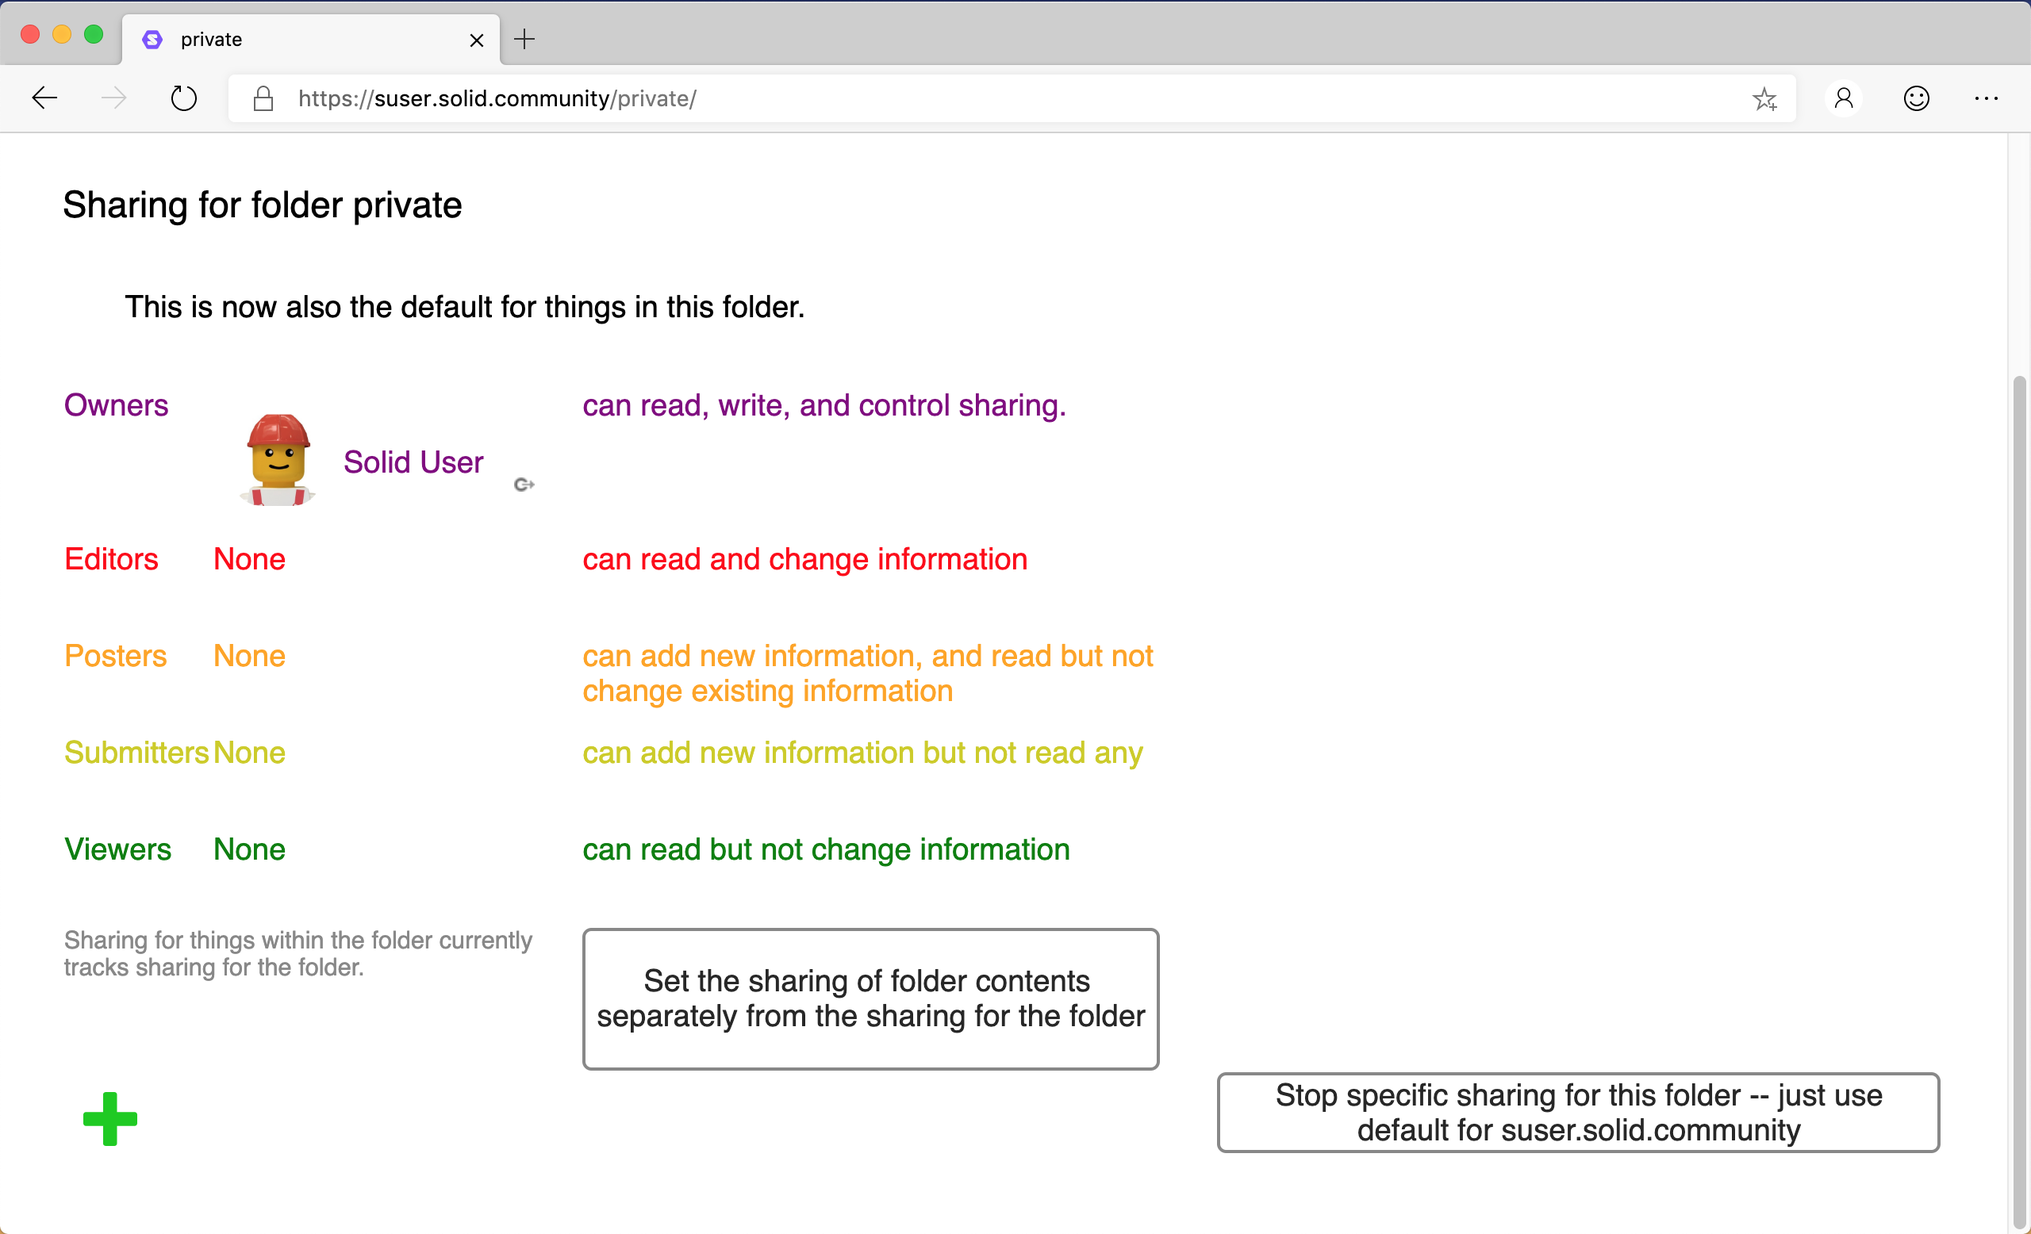
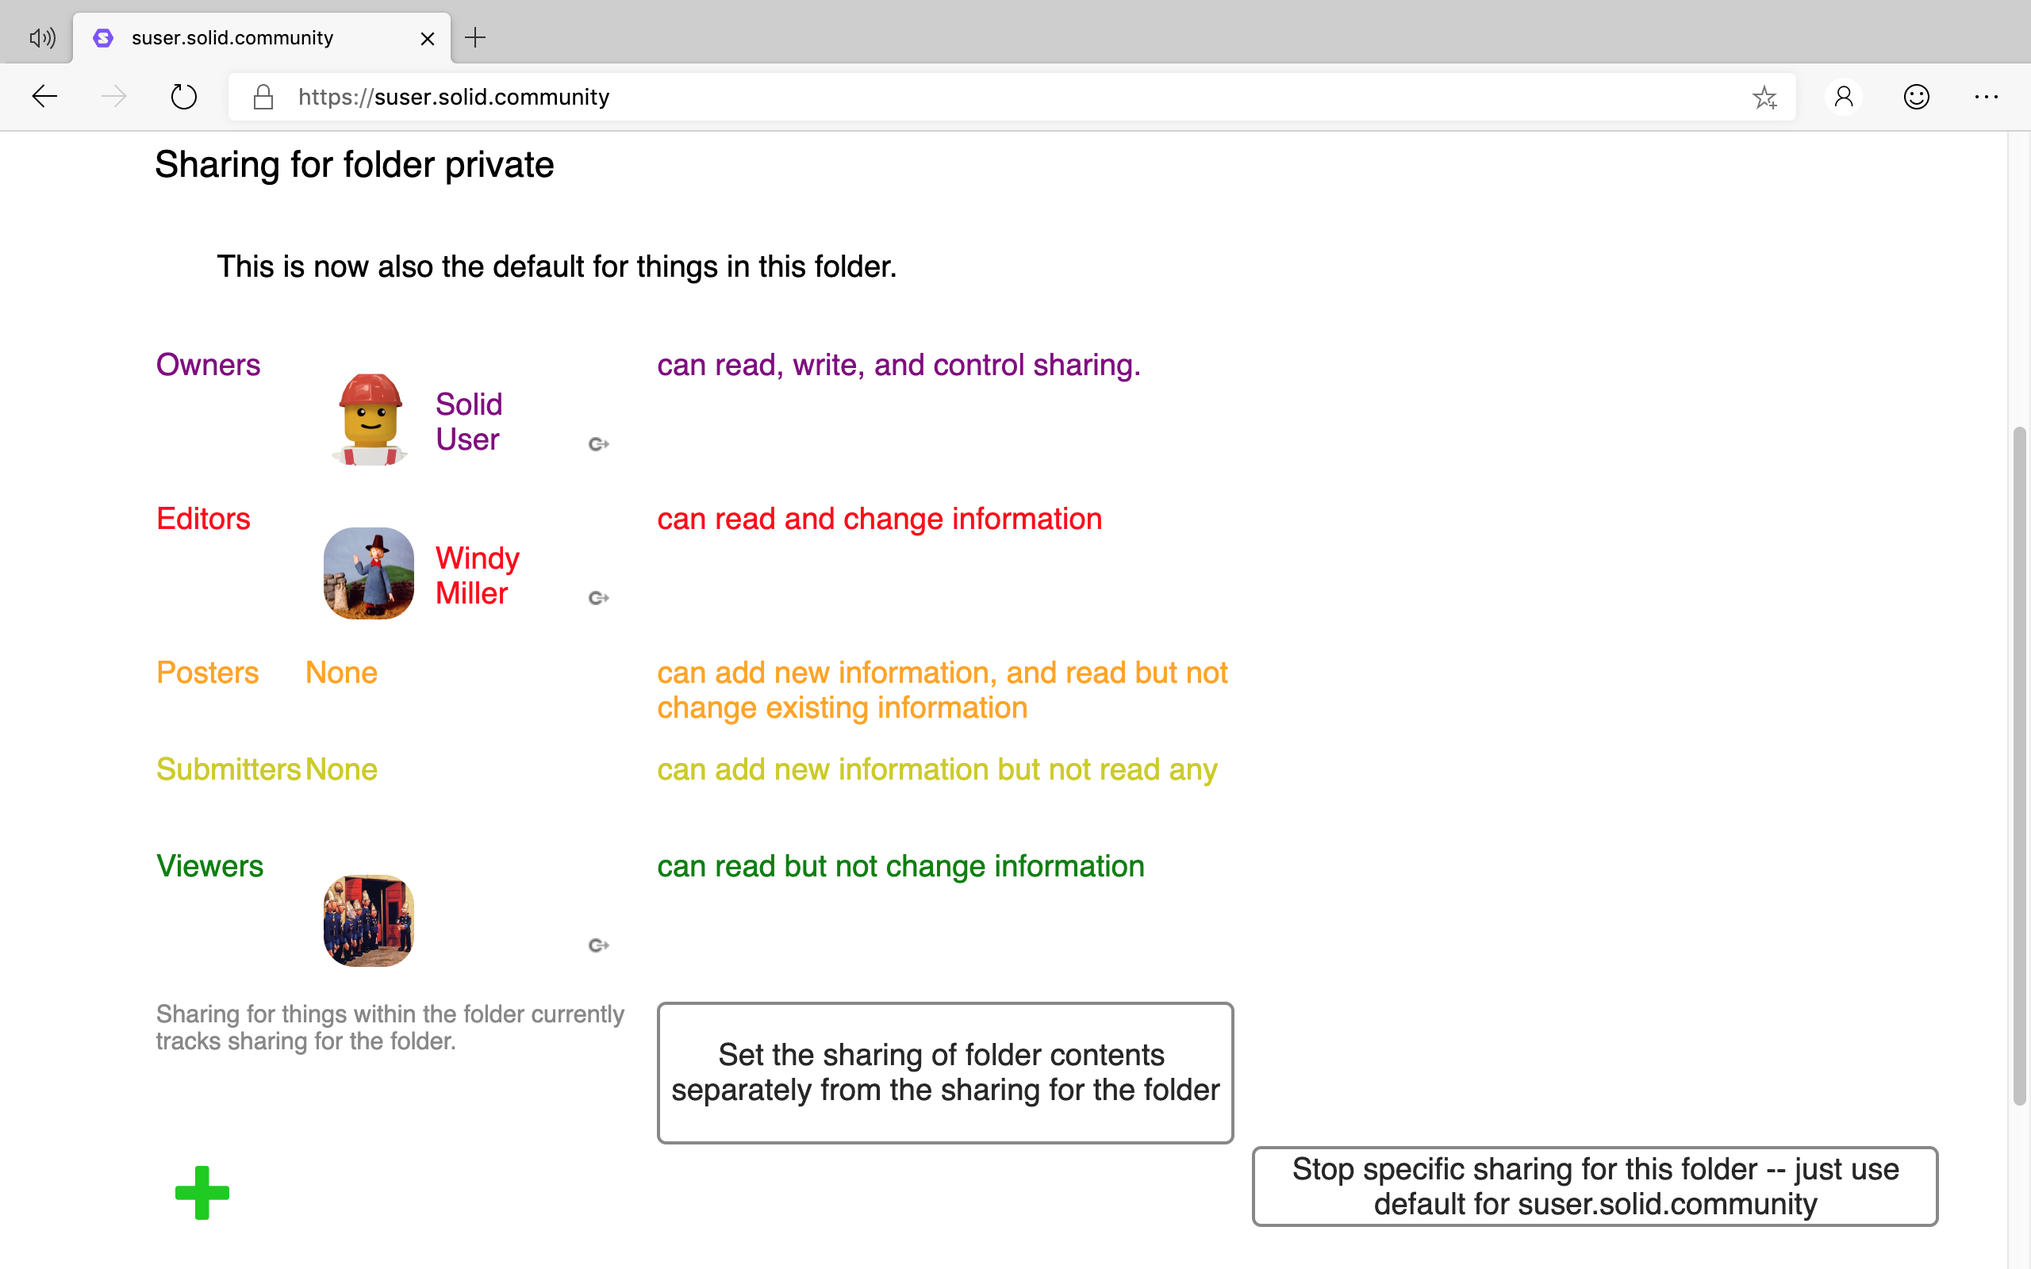
Source View added
Source View added. Renamed view user guides to userguide.md.

diff --git a/README.md b/README.md
@@ -10,7 +10,7 @@ The Data Browser is your de-facto default interface to Solid, enabling you to cr
 ## Accessing
 To access the data stored in a Solid Pod via the Data Browser:
 
-1. In a web browser, navigate to the root Uniform Resource Locator (URL) for the Pod.
+1. In a web browser, navigate to the root Uniform Resource Locator (URL) for the Pod (e.g., https://suser.solid.community):
 2. You will see a view of the public data within the Pod:
 
     <img src=".gitbook/assets//Public_Home.png" alt="Home View (Public)" width="1024" style="border: 1; border-style:solid; border-color: rgb(200,200,200)">
@@ -47,10 +47,10 @@ Via the Data Browser, you can browse and maintain the data within the Pod.
 ### Navigation
 The Data Browser allows you to navigate through the data you have read access.
 
-1. If necessary, click the Solid logo to display the <img src=".gitbook/icons/home.svg" alt="Home" width="16" height="16"> Home view.
-2. Display the <img src=".gitbook/icons/folder.svg" alt="Folder" width="16" height="16"> Folder view.
+1. If necessary, click the Solid logo to display the <img src="https://solid.github.io/solid-ui/src/icons/noun_547570.svg" alt="Home" width="16" height="16"> Home view.
+2. Display the <img src="https://solid.github.io/solid-ui/src/icons/noun_973694_expanded.svg" alt="Folder" width="16" height="16"> Folder view.
 3. The folder and data resources in the root folder are displayed as a tree.
-4. Nagivate through the tree by <img src=".gitbook/icons/tbl-collapse.png" alt="Expand" width="16" height="16">expanding and <img src=".gitbook/icons/tbl-expand-trans.png" alt="Collapse" width="16" height="16">collapsing folders and data resources.
+4. Nagivate through the tree by <img src="https://solid.github.io/solid-ui/src/originalIcons/tbl-expand-trans.png" alt="Expand" width="16" height="16">expanding and <img src="https://solid.github.io/solid-ui/src/originalIcons/tbl-collapse.png" alt="Collapse" width="16" height="16">collapsing folders and data resources.
 
 _Tip: You can enter the URL for a folder or data resource in the web browser address bar to navigate directly to that resource._
 
@@ -59,18 +59,18 @@ You can view the contents of any folders and/or data resources to which you have
 
 To view an existing folder or data resource:
 1. [Navigate](#Navigation) to the folder containing the resource.
-2. Open the resource by clicking the <img src=".gitbook/icons/tbl-expand-trans.png" alt="Expand" width="16" height="16"> icon next to the resource.
+2. Open the resource by clicking the <img src="https://solid.github.io/solid-ui/src/originalIcons/tbl-expand-trans.png" alt="Expand" width="16" height="16"> icon next to the resource.
 3. Depending upon the type of resource selected, different view options can be displayed:
-    * <img src=".gitbook/icons/about.png" alt="About" width="16" height="16"> About.
-    * <img src=".gitbook/icons/data.gif" alt="Data" width="16" height="16"> Data.
-    * <img src=".gitbook/icons/dataasn3.png" alt="Data as N3" width="16" height="16"> Data as N3.
-    * <img src=".gitbook/icons/dokieli.png" alt="Dokieli" width="16" height="16"> [Dokieli](https://dokie.li/). Clientside editor for decentralised article publishing, annotations and social interactions.
-    * <img src=".gitbook/icons/folder.svg" alt="Folder" width="16" height="16"> Folder.
-    * <img src=".gitbook/icons/rdfxml.png" alt="RDF/XML" width="16" height="16"> RDF/XML.
-    * <img src="views/settings/underthehood.png" alt="Settings" width="16" height="16"> [Settings](views/settings/README.md). Access 'under the hood' functionality regarding the resource.
-    * <img src="views/sharing/sharing.svg" alt="Sharing" width="16" height="16"> [Sharing](views/sharing/README.md). Display/update the sharing permissions for the resource.
-    * <img src=".gitbook/icons/slideshow.svg" alt="Slideshow" width="16" height="16"> Slideshow. Display a slideshow of the images contained within the folder.
-    * <img src="views/source/source.svg" alt="Source" width="16" height="16"> [Source](views/source/README.md). Display the source of a text file.
+    * <img src="https://solid.github.io/solid-ui/src/originalIcons/about.png" alt="About" width="16" height="16"> About. Display information regarding the resource.
+    * <img src="https://solid.github.io/solid-ui/src/originalIcons/rdf_flyer.24.gif" alt="Data" width="16" height="16"> Data. Display the resource using a Data view.
+    * <img src="https://solid.github.io/solid-ui/src/originalIcons/w3c/n3_smaller.png" alt="Data as N3" width="16" height="16"> Data as N3. Display the resource in Notation3 (N3) language. For more details on N3, click [here](https://www.w3.org/TeamSubmission/n3/).
+    * <img src="https://solid.github.io/solid-ui/src/icons/dokieli-logo.png" alt="Dokieli" width="16" height="16"> [Dokieli](https://dokie.li/). Clientside editor for decentralised article publishing, annotations and social interactions.
+    * <img src="https://solid.github.io/solid-ui/src/icons/noun_973694_expanded.svg" alt="Folder" width="16" height="16"> Folder. Display the resources within the container in a tree-view.
+    * <img src="https://solid.github.io/solid-ui/src/originalIcons/22-text-xml4.png" alt="RDF/XML" width="16" height="16"> RDF/XML. Display the resource as RDF/XML.
+    * <img src="https://solid.github.io/solid-ui/src/originalIcons/tango/22-emblem-system.png" alt="Settings" width="16" height="16"> [Settings](https://github.com/solid/userguide/views/settings/userguide.md). Access 'under the hood' functionality regarding the resource.
+    * <img src="https://solid.github.io/solid-ui/src/icons/padlock-timbl.svg" alt="Sharing" width="16" height="16"> [Sharing](https://github.com/solid/userguide/views/sharing/userguide.md). Display/update the sharing permissions for the resource.
+    * <img src="https://solid.github.io/solid-ui/src/icons/noun_138712.svg" alt="Slideshow" width="16" height="16"> Slideshow. Display a slideshow of the images contained within the folder.
+    * <img src="https://solid.github.io/solid-ui/src/icons/noun_109873.svg" alt="Source" width="16" height="16"> [Source](https://github.com/solid/userguide/views/source/userguide.md). Display the source of a text file.
     Additionally, if the selected resource is of a well-known type (e.g., Address Book, Chat, Dokieli, etc.), it will automatically be opened in that view.
 4. Click the appropriate icon to view the resource in the desired manner.
 
@@ -81,32 +81,32 @@ You can create new folders and data within any Pod folder to which you have crea
 
 To create a new folder or data resource:
 1. [Navigate](#Navigation) to the folder in which you want to create the new resource.
-2. Click the <img src=".gitbook/icons/greenplus.svg" alt="Create" width="16" height="16"> icon for the folder.
+2. Click the <img src="https://solid.github.io/solid-ui/src/icons/noun_34653_green.svg" alt="Create" width="16" height="16"> icon for the folder.
 3. Several icons are displayed showing the types of resource that can be created:
-    * <img src="views/addressbook/addressbook.svg" alt="Address Book" width="16" height="16"> [Address Book](views/addressbook/README.md). List of contacts.
-    * <img src="views/chat/chat.svg" alt="Chat" width="16" height="16"> [Chat](views/chat/README.md). A short chat session.
-    * <img src=".gitbook/icons/dokieli.png" alt="Dokieli" width="16" height="16"> [Dokieli](https://dokie.li/). Clientside editor for decentralised article publishing, annotations and social interactions.
-    * <img src=".gitbook/icons/folder.svg" alt="Folder" width="16" height="16"> Folder. Create a new named folder.
-    * <img src="views/longchat/longchat.svg" alt="Long Chat" width="16" height="16"> [Long Chat](views/longchat.md). A multi-day chat session.
-    * <img src="views/meeting/meeting.svg" alt="Meeting" width="16" height="16"> [Meeting](views/meeting/README.md). Setup a meeting.
-    * <img src="views/notepad/notepad.svg" alt="Note Pad" width="16" height="16"> [Note Pad](views/notepad/README.md). A multi-user notepad.
-    * <img src="views/scheduledevent/scheduledevent.svg" alt="Scheduled Event" width="16" height="16"> [Scheduled Event](views/scheduledevent/README.md).
-    * <img src=".gitbook/icons/source.svg" alt="Source" width="16" height="16"> [Source](views/source.md). Create a text files (e.g., Turtle, JSON, RDF, ShEx and SHACL shapes, etc.).
+    * <img src="https://solid.github.io/solid-ui/src/icons/noun_99101.svg" alt="Address Book" width="16" height="16"> [Address Book](https://github.com/solid/userguide/views/addressbook/README.md). List of contacts.
+    * <img src="https://solid.github.io/solid-ui/src/icons/noun_346319.svg" alt="Chat" width="16" height="16"> [Chat](https://github.com/solid/userguide/views/chat/README.md). A short chat session.
+    * <img src="https://solid.github.io/solid-ui/src/icons/dokieli-logo.png" alt="Dokieli" width="16" height="16"> [Dokieli](https://dokie.li/). Clientside editor for decentralised article publishing, annotations and social interactions.
+    * <img src="https://solid.github.io/solid-ui/src/icons/noun_973694_expanded.svg" alt="Folder" width="16" height="16"> Folder. Create a new named folder.
+    * <img src="https://solid.github.io/solid-ui/src/icons/noun_1689339.svg" alt="Long Chat" width="16" height="16"> [Long Chat](https://github.com/solid/userguide/views/longchat.md). A multi-day chat session.
+    * <img src="https://solid.github.io/solid-ui/src/icons/noun_66617.svg" alt="Meeting" width="16" height="16"> [Meeting](https://github.com/solid/userguide/views/meeting/README.md). Setup a meeting.
+    * <img src="https://solid.github.io/solid-ui/src/icons/noun_79217.svg" alt="Note Pad" width="16" height="16"> [Note Pad](https://github.com/solid/userguide/views/notepad/README.md). A multi-user notepad.
+    * <img src="https://solid.github.io/solid-ui/src/icons/noun_346777.svg" alt="Scheduled Event" width="16" height="16"> [Scheduled Event](https://github.com/solid/userguide/views/scheduledevent/README.md).
+    * <img src="https://solid.github.io/solid-ui/src/icons/noun_109873.svg" alt="Source" width="16" height="16"> [Source](https://github.com/solid/userguide/views/source.md). Create a text files (e.g., Turtle, JSON, RDF, ShEx and SHACL shapes, etc.).
 4. Select the type of resource you want to create.
-5. Enter the name of the new resource, and click the <img src=".gitbook/icons/continue.svg" alt="Continue" width="16" height="16"> Continue button.
+5. Enter the name of the new resource, and click the <img src="https://solid.github.io/solid-ui/src/icons/noun_1180158.svg" alt="Continue" width="16" height="16"> Continue button.
 6. The selected resource will be created in the folder.
 
 _Tip: Dokieli documents must have a `.html` extension._
 
-_Tip: Drag and drop a file onto the <img src=".gitbook/icons/greenplus.svg" alt="Create" width="16" height="16"> button, and it will be uploaded to that folder._
+_Tip: Drag and drop a file onto the <img src="https://solid.github.io/solid-ui/src/icons/noun_34653_green.svg" alt="Create" width="16" height="16"> button, and it will be uploaded to that folder._
 
 ### Deleting existing Data
 You can delete existing folder and data resources to which you have delete permission.
 
 To delete an existing data resource:
 1. Navigate to and open the resource you want to delete.
-2. Click on the <img src="views/settings/underthehood.png" alt="Settings" width="16" height="16"> Settings (Under the Hood) icon.
-3. In the displayed panel, hover your mouse cursor to the left of the <img src=".gitbook/icons/refresh.svg" alt="Refresh" width="16" height="16"> Refresh icon. A <img src=".gitbook/icons/delete.svg" alt="Remove" width="16" height="16"> Remove icon will become visible:
+2. Click on the <img src="https://solid.github.io/solid-ui/src/originalIcons/tango/22-emblem-system.png" alt="Settings" width="16" height="16"> Settings (Under the Hood) icon.
+3. In the displayed panel, hover your mouse cursor to the left of the <img src="https://solid.github.io/solid-ui/src/icons/noun_479395.svg" alt="Refresh" width="16" height="16"> Refresh icon. A <img src="https://solid.github.io/solid-ui/src/icons/noun_2188_red.svg" alt="Remove" width="16" height="16"> Remove icon will become visible:
 
     <img src=".gitbook/assets/Delete_Resource.png" alt="Delete an existing Resource" width="632">
 

diff --git a/views/sharing/userguide.md b/views/sharing/userguide.md
@@ -1,0 +1,65 @@
+---
+description: User Guide For Sharing Data Browser view
+---
+
+# Sharing View User Guide
+Solid allows you to control who can access folders and data resources within your Pod, and what permission have - read, create, update, delete. 
+
+## View
+To display the Sharing view for a folder or data resource:
+1. In the [Data Browser](https://github.com/solid/userguide/README.md), navigate to the resource.
+2. Select the <img src="https://solid.github.io/solid-ui/src/icons/padlock-timbl.svg" alt="Sharing" width="16" > Sharing view.
+3. The Sharing settings for the selected resource are displayed:
+
+<img src="Sharing_View.png" alt="Sharing" width="1024" style="border: 1; border-style:solid; border-color: rgb(200,200,200)">
+
+_Tip: Clicking the <img src="https://solid.github.io/solid-ui/src/originalIcons/go-to-this.png" alt="Sharing" width="16"> Goto This icon next to the user's Profile image/name will display the user's profile._
+
+## Specific Sharing for a Resource
+By default, resources within a folder inherit the permissions from the parent folder. 
+
+To set specific sharing for the resource:
+1. Click the **Set the sharing of folder contents separately from the sharing for the folder** button.
+2. This causes the a set of sharing groups (Owners, Editors, Posters, Submitters, Viewers) for the specific resource to be displayed.
+
+To reset the sharing for the resource back to the default:
+1. Click the **Stop specific sharing for this folder/file** button.
+
+## Custom Sharing
+The sharing permissions for a given resource can be updated to provide access to specific users, groups, bots, authenticated agents, trusted applications, or even everyone.
+
+### Add
+To add a user/group/bot as Viewers:
+1. Click the <img src="https://solid.github.io/solid-ui/src/icons/noun_34653_green.svg" alt="Add" width="16" > Add icon.
+2. Icons are displayed for each of the entities that can be given access to the resource:
+    * <img src="https://solid.github.io/solid-ui/src/icons/noun_15059.svg" alt="User URI" width="20" > User.
+    * <img src="https://solid.github.io/solid-ui/src/icons/noun_339237.svg" alt="Group URI" width="20" > Group.
+    * <img src="https://solid.github.io/solid-ui/src/icons/noun_98053.svg" alt="Everyone" width="20" > Everyone.
+    * <img src="https://solid.github.io/solid-ui/src/icons/noun_99101.svg" alt="Authenticated Agent" width="20" > Authenticated Agent.
+    * <img src="https://solid.github.io/solid-ui/src/icons/noun_Robot_849764.svg" alt="Bot URI" width="20" > Bot.
+    * <img src="https://solid.github.io/solid-ui/src/icons/noun_15177.svg" alt="Trusted Applications" width="20" > Trusted Applications.
+3. Select the entity type for which you want to provide access.
+    * If a <img src="https://solid.github.io/solid-ui/src/icons/noun_15059.svg" alt="User URI" width="20" > User, <img src="https://solid.github.io/solid-ui/src/icons/noun_339237.svg" alt="Group URI" width="20" > Group or <img src="https://solid.github.io/solid-ui/src/icons/noun_Robot_849764.svg" alt="Bot URI" width="20" > Bot is selected to be added:
+        1. A text box is displayed allowing the URI for the entity to be entered.
+        2. Enter the URI for the entity and click <img src="https://solid.github.io/solid-ui/src/icons/noun_1180158.svg" alt="Continue" width="20" > Continue.
+        3. The entered entity is added as a Viewer.
+    * If <img src="https://solid.github.io/solid-ui/src/icons/noun_98053.svg" alt="Everyone" width="20" > Everyone or <img src="https://solid.github.io/solid-ui/src/icons/noun_99101.svg" alt="Authenticated Agent" width="20" > Authenticated Agent is selected:
+        1. Everyone or Authenticated Agent is immediately added as a Viewer.
+    * If <img src="https://solid.github.io/solid-ui/src/icons/noun_15177.svg" alt="Trusted Applications" width="20" > Trusted Applications is selected:
+        1. A list of your trusted applications is displayed.
+        2. Select the Trusted Applications you want to give access.
+        3. The selected Trusted Applications are added as Viewers.
+4. Once added, the sharing access of the entity can be [adjusted](#Adjust).
+
+_Tip: To add a entity to a specific sharing group, drag-and-drop the URI for the entity onto the sharing group._
+
+### Adjust
+To move an entity between sharing groups:
+1. Click-and-drag the entity between the sharing groups.
+
+
+### Remove
+To remove an entity from a sharing group:
+1. Hover the mouse pointer over the <img src="https://solid.github.io/solid-ui/src/originalIcons/go-to-this.png" alt="Sharing" width="16"> Goto This icon next to the user's Profile image/name.
+2. A <img src="https://solid.github.io/solid-ui/src/icons/noun_2188_red.svg" alt="Sharing" width="16"> Remove icon is displayed. 
+3. Click the Remove icon to remove the sharing access for the entity.

diff --git a/views/source/userguide.md b/views/source/userguide.md
@@ -1,0 +1,30 @@
+---
+description: User Guide For Source Data Browser view
+---
+
+# Source View User Guide
+
+The sources for data resources (e.g., .ttl, html, etc.) can be viewed and edited via the Source view. 
+
+## View
+To display the Source view for a folder or data resource:
+1. In the [Data Browser](https://github.com/solid/userguide/README.md), navigate to the resource.
+2. Select the <img src="https://solid.github.io/solid-ui/src/icons/noun_109873.svg" alt="Source" width="16" > Source view.
+3. The source for the selected resource is displayed:
+
+<img src="Source_View.png" alt="Source" width="1024" style="border: 1; border-style:solid; border-color: rgb(200,200,200)">
+
+## Edit
+To edit the displayed source:
+1. Click <img src="https://solid.github.io/solid-ui/src/icons/noun_253504.svg" alt="Edit" width="16"> below the Source view panel.
+
+## Save / Cancel
+To save edits to the source:
+1. Click <img src="https://solid.github.io/solid-ui/src/icons/noun_1180158.svg" alt="Continue" width="16"> below the Source view panel.
+2. Based on the type of data resource being edited, the source will be syntax checked and: 
+    1. If valid, the resource will be saved. 
+    2. Otherwise, an error message is displayed describing the issue. The issue will need to be corrected before the resource can be saved.
+
+_Tip: To cancel and discard any edits, click <img src="https://solid.github.io/solid-ui/src/icons/noun_1180156.svg" alt="Cancel" width="16"> below the Source view panel._
+
+_Tip: You need write access to the data resource to save edits._
